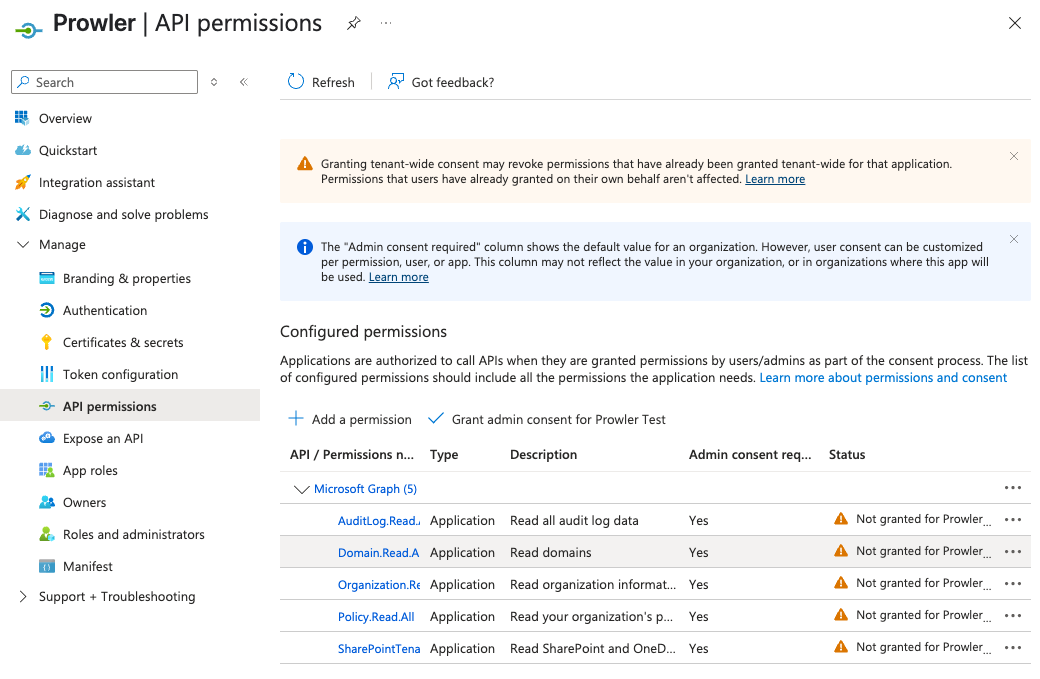
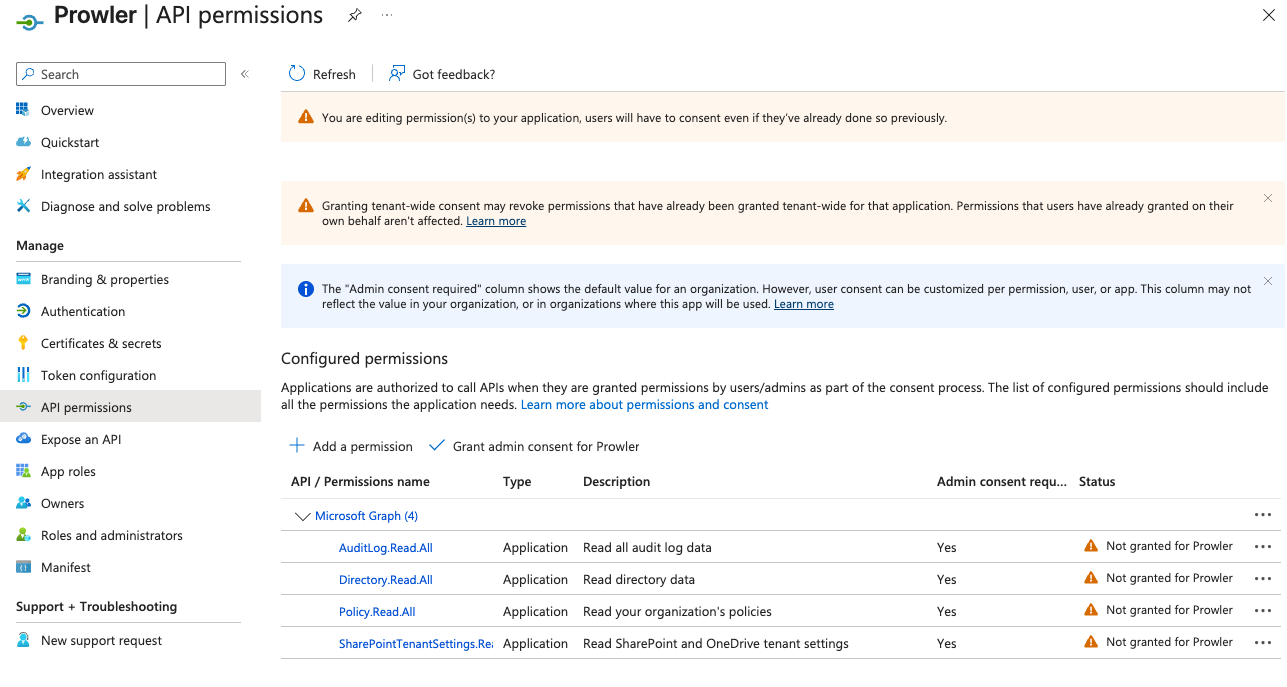
feat(docs): update Azure and M365 docs with needed permissions (#8075)

diff --git a/prowler/providers/azure/services/entra/entra_service.py b/prowler/providers/azure/services/entra/entra_service.py
@@ -45,38 +45,45 @@ class Entra(AzureService):
             for tenant, client in self.clients.items():
                 users_list = await client.users.get()
                 users.update({tenant: {}})
-                for user in users_list.value:
-                    users[tenant].update(
-                        {
-                            user.id: User(
-                                id=user.id,
-                                name=user.display_name,
-                                authentication_methods=[
-                                    AuthMethod(
-                                        id=auth_method.id,
-                                        type=getattr(auth_method, "odata_type", None),
-                                    )
-                                    for auth_method in (
-                                        await client.users.by_user_id(
-                                            user.id
-                                        ).authentication.methods.get()
-                                    ).value
-                                ],
-                            )
-                        }
-                    )
+                try:
+                    for user in users_list.value:
+                        users[tenant].update(
+                            {
+                                user.id: User(
+                                    id=user.id,
+                                    name=user.display_name,
+                                    authentication_methods=[
+                                        AuthMethod(
+                                            id=auth_method.id,
+                                            type=getattr(
+                                                auth_method, "odata_type", None
+                                            ),
+                                        )
+                                        for auth_method in (
+                                            await client.users.by_user_id(
+                                                user.id
+                                            ).authentication.methods.get()
+                                        ).value
+                                    ],
+                                )
+                            }
+                        )
+                except Exception as error:
+                    if (
+                        error.__class__.__name__ == "ODataError"
+                        and error.__dict__.get("response_status_code", None) == 403
+                    ):
+                        logger.error(
+                            "You need 'UserAuthenticationMethod.Read.All' permission to access this information. It only can be granted through Service Principal authentication."
+                        )
+                    else:
+                        logger.error(
+                            f"{error.__class__.__name__}[{error.__traceback__.tb_lineno}]: {error}"
+                        )
         except Exception as error:
-            if (
-                error.__class__.__name__ == "ODataError"
-                and error.__dict__.get("response_status_code", None) == 403
-            ):
-                logger.error(
-                    "You need 'UserAuthenticationMethod.Read.All' permission to access this information. It only can be granted through Service Principal authentication."
-                )
-            else:
-                logger.error(
-                    f"{error.__class__.__name__}[{error.__traceback__.tb_lineno}]: {error}"
-                )
+            logger.error(
+                f"{error.__class__.__name__}[{error.__traceback__.tb_lineno}]: {error}"
+            )
 
         return users
 

diff --git a/docs/getting-started/requirements.md b/docs/getting-started/requirements.md
@@ -70,9 +70,13 @@ The other three cases does not need additional configuration, `--az-cli-auth` an
 Prowler for Azure needs two types of permission scopes to be set:
 
 - **Microsoft Entra ID permissions**: used to retrieve metadata from the identity assumed by Prowler and specific Entra checks (not mandatory to have access to execute the tool). The permissions required by the tool are the following:
-    - `Domain.Read.All`
+    - `Directory.Read.All`
     - `Policy.Read.All`
     - `UserAuthenticationMethod.Read.All` (used only for the Entra checks related with multifactor authentication)
+
+    ???+ note
+        You can replace `Directory.Read.All` with `Domain.Read.All` that is a more restrictive permission but you won't be able to run the Entra checks related with DirectoryRoles and GetUsers.
+
 - **Subscription scope permissions**: required to launch the checks against your resources, mandatory to launch the tool. It is required to add the following RBAC builtin roles per subscription to the entity that is going to be assumed by the tool:
     - `Reader`
     - `ProwlerRole` (custom role with minimal permissions defined in [prowler-azure-custom-role](https://github.com/prowler-cloud/prowler/blob/master/permissions/prowler-azure-custom-role.json))
@@ -205,11 +209,16 @@ Prowler for M365 requires two types of permission scopes to be set (if you want 
 
 - **Service Principal Application Permissions**: These are set at the **application** level and are used to retrieve data from the identity being assessed:
     - `AuditLog.Read.All`: Required for Entra service.
-    - `Domain.Read.All`: Required for all services.
-    - `Organization.Read.All`: Required for retrieving tenant information.
+    - `Directory.Read.All`: Required for all services.
     - `Policy.Read.All`: Required for all services.
     - `SharePointTenantSettings.Read.All`: Required for SharePoint service.
     - `User.Read` (IMPORTANT: this must be set as **delegated**): Required for the sign-in.
+
+    ???+ note
+        You can replace `Directory.Read.All` with `Domain.Read.All` is a more restrictive permission but you won't be able to run the Entra checks related with DirectoryRoles and GetUsers.
+
+        > If you do this you will need to add also the `Organization.Read.All` permission to the service principal application in order to authenticate.
+
 
 
 - **Powershell Modules Permissions**: These are set at the `M365_USER` level, so the user used to run Prowler must have one of the following roles:

diff --git a/docs/tutorials/microsoft365/getting-started-m365.md b/docs/tutorials/microsoft365/getting-started-m365.md
@@ -95,11 +95,17 @@ With this done you will have all the needed keys, summarized in the following ta
 ### Grant required API permissions
 
 Assign the following Microsoft Graph permissions:
+
 - `AuditLog.Read.All`: Required for Entra service.
-- `Domain.Read.All`: Required for all services.
+- `Directory.Read.All`: Required for all services.
 - `Policy.Read.All`: Required for all services.
 - `SharePointTenantSettings.Read.All`: Required for SharePoint service.
 - `User.Read` (IMPORTANT: this is set as **delegated**): Required for the sign-in.
+
+???+ note
+    You can replace `Directory.Read.All` with `Domain.Read.All` is a more restrictive permission but you won't be able to run the Entra checks related with DirectoryRoles and GetUsers.
+
+    > If you do this you will need to add also the `Organization.Read.All` permission to the service principal application in order to authenticate.
 
 Follow these steps to assign the permissions:
 
@@ -113,8 +119,7 @@ Follow these steps to assign the permissions:
 
 3. Search and select every permission below and once all are selected click on `Add permissions`:
     - `AuditLog.Read.All`: Required for Entra service.
-    - `Domain.Read.All`
-    - `Organization.Read.All`
+    - `Directory.Read.All`
     - `Policy.Read.All`
     - `SharePointTenantSettings.Read.All`
 
@@ -134,7 +139,7 @@ Follow these steps to assign the permissions:
 
     ![Permission Screenshots](./img/directory-permission-delegated.png)
 
-6. Click `Add permissions`, then **grant admin consent**
+6. After adding all the permissions, click on `Grant admin consent`
 
     ![Grant Admin Consent](./img/grant-admin-consent.png)
 

diff --git a/prowler/CHANGELOG.md b/prowler/CHANGELOG.md
@@ -37,6 +37,7 @@ All notable changes to the **Prowler SDK** are documented in this file.
 - Azure Databricks service integration for Azure provider, including the `databricks_workspace_vnet_injection_enabled` check [(#8008)](https://github.com/prowler-cloud/prowler/pull/8008)
 - Azure Databricks check `databricks_workspace_cmk_encryption_enabled` to ensure workspaces use customer-managed keys (CMK) for encryption at rest [(#8017)](https://github.com/prowler-cloud/prowler/pull/8017)
 - Add `storage_account_default_to_entra_authorization_enabled` check for Azure provider. [(#7981)](https://github.com/prowler-cloud/prowler/pull/7981)
+- Replace `Domain.Read.All` with `Directory.Read.All` in Azure and M365 docs [(#8075)](https://github.com/prowler-cloud/prowler/pull/8075)
 
 ### Removed
 - OCSF version number references to point always to the latest [(#8064)](https://github.com/prowler-cloud/prowler/pull/8064)

diff --git a/docs/tutorials/azure/getting-started-azure.md b/docs/tutorials/azure/getting-started-azure.md
@@ -90,11 +90,14 @@ A Service Principal is required to grant Prowler the necessary privileges.
 
 Assign the following Microsoft Graph permissions:
 
-    - Domain.Read.All
+- Directory.Read.All
 
-    - Policy.Read.All
+- Policy.Read.All
 
-    - UserAuthenticationMethod.Read.All (optional, for MFA checks)
+- UserAuthenticationMethod.Read.All (optional, for MFA checks)
+
+???+ note
+    You can replace `Directory.Read.All` with `Domain.Read.All` that is a more restrictive permission but you won't be able to run the Entra checks related with DirectoryRoles and GetUsers.
 
 1. Go to your App Registration > `API permissions`
 
@@ -107,7 +110,7 @@ Assign the following Microsoft Graph permissions:
 
 3. Search and select:
 
-    - `Domain.Read.All`
+    - `Directory.Read.All`
     - `Policy.Read.All`
     - `UserAuthenticationMethod.Read.All`
 
